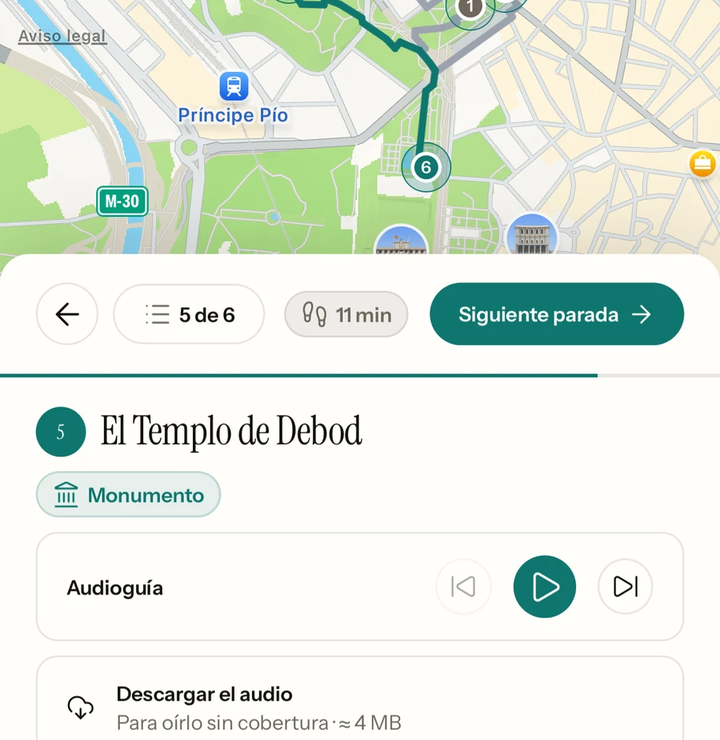
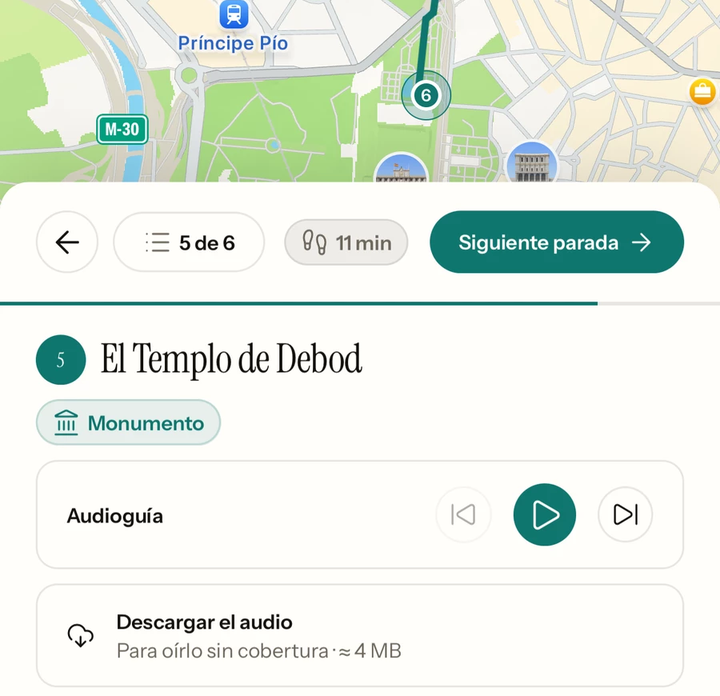
Anuncio del lanzamiento: la marca desde el fotograma 0, cortes en seco, pantallas opacas, recortes y subtítulos al arranque de cada palabra
Claude-Session: https://claude.ai/code/session_0196mf4dm34Y5H63pT5oKbym

diff --git a/piezas/historias-animadas/lanzamiento-ios/index.html b/piezas/historias-animadas/lanzamiento-ios/index.html
@@ -43,14 +43,19 @@
       .pantalla img, .pantalla video { display: block; width: 720px; }
 
       /* LA TARJETA DE LA AUDIOGU&Iacute;A, como la que el due&ntilde;o aprob&oacute; en el reel de la Sagrada Fam&iacute;lia:
-         blanco roto de la app, el verde de la app s&oacute;lo en el icono que suena y el nombre, y la frase en
-         negro, cada palabra encendi&eacute;ndose cuando la dice la voz. */
+         blanco roto de la app, el verde de la app s&oacute;lo en las barras que suenan y el nombre, y la frase
+         en negro, cada palabra encendi&eacute;ndose cuando la dice la voz. Lleva LA MARCA desde el
+         fotograma 0 (revisi&oacute;n del 24-oct: sin ella, quien pasa el reel a los 3 s no sabe de qui&eacute;n
+         es): el icono de la app y &laquo;Nomad&raquo;. La segunda l&iacute;nea no repite lo que dice la pantalla. */
       #audio { position: absolute; left: 84px; top: 476px; width: 816px; height: 196px; box-sizing: border-box;
                background: #FEFCF9; border: 2px solid rgba(16,14,11,.06); border-radius: 34px;
                box-shadow: 0 24px 60px rgba(16,14,11,.35); color: #100E0B; }
-      #icono { position: absolute; left: 36px; top: 28px; width: 60px; height: 60px; border-radius: 30px;
-               background: #106A63; display: flex; align-items: center; justify-content: center; gap: 5px; }
-      .barra { display: block; width: 5px; height: 28px; border-radius: 3px; background: #FEFCF9; }
+      /* El icono de la app como fondo, no como &lt;img&gt;: el cierre ya lo usa como &lt;img&gt; y dos
+         nodos con la misma fuente se pueden descubrir dos veces al compilar (hyperframes check). */
+      #icono { position: absolute; left: 36px; top: 26px; width: 64px; height: 64px; border-radius: 15px;
+               background: url(assets/icono-app.png) center / cover no-repeat; }
+      #ondas { position: absolute; right: 40px; top: 36px; height: 40px; display: flex; align-items: center; gap: 6px; }
+      .barra { display: block; width: 6px; height: 34px; border-radius: 3px; background: #106A63; }
       #que-suena { position: absolute; left: 116px; top: 26px; margin: 0; font-size: 32px; line-height: 38px;
                    font-weight: 700; color: #106A63; white-space: nowrap; }
       #donde { position: absolute; left: 116px; top: 66px; margin: 0; font-size: 28px; line-height: 32px;
@@ -94,16 +99,19 @@
       <p id="k1" class="kicker sans">Templo de Debod &middot; Madrid</p>
       <h1 id="t1" class="tit serif" style="top: 348px;">La ciudad, <span class="menta">contada.</span></h1>
       <div id="audio">
-        <div id="icono"><span class="barra"></span><span class="barra"></span><span class="barra"></span><span class="barra"></span></div>
-        <p id="que-suena" class="sans">Audiogu&iacute;a</p>
-        <p id="donde" class="sans">Parada 5 &middot; El Templo de Debod</p>
+        <div id="icono"></div>
+        <p id="que-suena" class="sans">Nomad</p>
+        <p id="donde" class="sans">Audiogu&iacute;a &middot; un paseo de 6 paradas</p>
+        <div id="ondas"><span class="barra"></span><span class="barra"></span><span class="barra"></span><span class="barra"></span></div>
         <!-- El texto es el de la app: tours_cache 688ed389, parada 5, main_explanation, segundo
-             p&aacute;rrafo, palabra por palabra hasta &laquo;lugar&raquo;. data-t: cu&aacute;ndo lo dice Kore en la mezcla. -->
+             p&aacute;rrafo, palabra por palabra hasta &laquo;lugar&raquo;. data-t: cu&aacute;ndo EMPIEZA la palabra en la mezcla
+             (el arranque, no la consonante fuerte: &laquo;cajas&raquo; en 4,76, con el cierre de la /k/). El
+             encendido arranca 0,07 s antes, para que el punto medio caiga ah&iacute;. -->
         <p id="s1" class="frase sans"><span data-t="0.60">Fue</span> <span data-t="0.93">desmontado</span> <span data-t="1.75">piedra</span> <span data-t="2.41">a</span> <span data-t="2.55">piedra,</span></p>
-        <p id="s2" class="frase sans"><span data-t="3.09">empaquetado</span> <span data-t="3.93">en</span> <span data-t="4.25">miles</span> <span data-t="4.59">de</span> <span data-t="4.91">cajas</span></p>
-        <p id="s3" class="frase sans"><span data-t="5.59">y</span> <span data-t="5.77">transportado</span> <span data-t="6.47">hasta</span> <span data-t="6.69">este</span> <span data-t="6.89">lugar.</span></p>
+        <p id="s2" class="frase sans"><span data-t="3.09">empaquetado</span> <span data-t="3.93">en</span> <span data-t="4.18">miles</span> <span data-t="4.59">de</span> <span data-t="4.76">cajas</span></p>
+        <p id="s3" class="frase sans"><span data-t="5.59">y</span> <span data-t="5.70">transportado</span> <span data-t="6.47">hasta</span> <span data-t="6.69">este</span> <span data-t="6.89">lugar.</span></p>
       </div>
-      <div id="p-debod" class="pantalla" style="top: 706px; height: 740px;">
+      <div id="p-debod" class="pantalla" style="top: 700px; height: 696px;">
         <img src="assets/pantalla-debod.png" alt="" />
       </div>
 
@@ -123,7 +131,7 @@
         <img src="assets/pantalla-eventos.png" alt="" />
       </div>
       <h1 id="t4" class="tit serif" style="top: 330px;">Los gastos, <span class="menta">en paz.</span></h1>
-      <div id="p-gastos" class="pantalla" style="top: 480px; height: 352px;">
+      <div id="p-gastos" class="pantalla" style="top: 480px; height: 290px;">
         <img src="assets/pantalla-gastos.png" alt="" />
       </div>
 
@@ -148,20 +156,31 @@
     <script>
       // Una sola l&iacute;nea de tiempo, pausada, registrada DESPU&Eacute;S de que carguen las fuentes.
       // Estado inicial dentro del fromTo, nunca en CSS; las salidas con .to.
+      //
+      // LOS CORTES, EN SECO (revisi&oacute;n del 24-oct). En cada cambio de escena la foto nueva entra de
+      // golpe en el tiempo fuerte y lo de la escena anterior ya no est&aacute; (o sale en ese mismo
+      // fotograma): nunca dos fotos ni dos tarjetas superpuestas. Y las pantallas son OPACAS desde su
+      // primer fotograma: entran movi&eacute;ndose, nunca fundi&eacute;ndose, porque una tarjeta medio
+      // transparente deja ver la foto a trav&eacute;s y parece una doble exposici&oacute;n.
+      // Lo que se ve en el fotograma 0 (el kicker, el t&iacute;tulo y la tarjeta con la marca) est&aacute; ah&iacute;
+      // desde el principio, sin entrada: es la portada por defecto de TikTok y el primer vistazo.
       document.fonts.ready.then(function () {
         var tl = gsap.timeline({ paused: true });
         // Cortes en los tiempos de la m&uacute;sica (0,627 s): 12, 23, 25,5, 28 y el golpe (20,0).
         var T2 = 7.52, T3 = 14.42, T4 = 15.99, T5 = 17.56, T6 = 20.0, FIN = 24.6;
         var IN = { autoAlpha: 1, y: 0, duration: 0.5, ease: "power3.out" };
-        var OUT = { autoAlpha: 0, y: -16, duration: 0.2, ease: "power2.in" };
         var ARR = { autoAlpha: 1, y: 0, duration: 0.6, ease: "power3.out" };
+        function corta(sel, t) { tl.to(sel, { autoAlpha: 0, duration: 0 }, t); }
+        function aparece(sel, t) { tl.fromTo(sel, { autoAlpha: 0 }, { autoAlpha: 1, duration: 0 }, t); }
+        // Una pantalla entra opaca desde abajo: visible desde el primer fotograma, s&oacute;lo se mueve.
+        function sube(sel, t, dy, dur) {
+          tl.fromTo(sel, { autoAlpha: 0, y: dy }, { autoAlpha: 1, duration: 0 }, t);
+          tl.fromTo(sel, { y: dy }, { y: 0, duration: dur, ease: "expo.out", immediateRender: false }, t);
+        }
 
-        // 1 · LA CIUDAD, CONTADA. La foto ya est&aacute;; el t&iacute;tulo entra antes de que hable Kore,
-        // la tarjeta con la voz, y la pantalla de la app sube en el primer comp&aacute;s (2,51).
-        tl.fromTo("#k1", { autoAlpha: 0, y: 14 }, IN, 0.05);
-        tl.fromTo("#t1", { autoAlpha: 0, y: 24 }, IN, 0.12);
-        tl.fromTo("#audio", { autoAlpha: 0, y: 30 }, IN, 0.3);
-        tl.fromTo("#p-debod", { autoAlpha: 0, y: 140 }, { autoAlpha: 1, y: 0, duration: 0.7, ease: "power3.out" }, 2.4);
+        // 1 · LA CIUDAD, CONTADA. Foto, kicker, t&iacute;tulo y tarjeta desde el fotograma 0; la pantalla de
+        // la app sube desde fuera del cuadro en el primer comp&aacute;s (2,4).
+        sube("#p-debod", 2.4, 1240, 0.9);
         // Las barras se mueven s&oacute;lo mientras habla la voz.
         var barras = document.querySelectorAll(".barra");
         for (var i = 0; i < barras.length; i++) {
@@ -176,45 +195,42 @@
           tl.fromTo(f[0], { autoAlpha: 0 }, { autoAlpha: 1, duration: 0.12, ease: "none" }, f[1]);
           if (f[2] !== null) tl.to(f[0], { autoAlpha: 0, duration: 0.1, ease: "none" }, f[2] - 0.1);
         });
+        // Cada palabra se enciende en 0,14 s CENTRADOS en el arranque que dice su data-t.
         document.querySelectorAll(".frase span").forEach(function (s) {
-          tl.fromTo(s, { opacity: 0.28 }, { opacity: 1, duration: 0.14, ease: "none" }, parseFloat(s.dataset.t));
+          tl.fromTo(s, { opacity: 0.28 }, { opacity: 1, duration: 0.14, ease: "none" }, parseFloat(s.dataset.t) - 0.07);
         });
-        // Salida, en el comp&aacute;s 3.
-        ["#k1", "#t1", "#audio"].forEach(function (s) { tl.to(s, OUT, T2 - 0.22); });
-        tl.to("#p-debod", { autoAlpha: 0, y: -60, duration: 0.25, ease: "power2.in" }, T2 - 0.25);
+        // Corte a C&oacute;rdoba en el comp&aacute;s 3: todo lo de Debod fuera en el mismo fotograma.
+        ["#k1", "#t1", "#audio", "#p-debod", "#f-debod"].forEach(function (s) { corta(s, T2); });
 
-        // 2 · ESCRIBIR EL VIAJE. Corte de foto en el tiempo fuerte; &laquo;Nomad lo escribe&raquo; entra
-        // cuando la app se pone a trabajar (escribir.mp4: tecleo 0-2,5, Montando 2,5-4,4, s&aacute;bado 4,4-6,9).
-        tl.fromTo("#f-cordoba", { autoAlpha: 0 }, { autoAlpha: 1, duration: 0.2, ease: "none" }, T2 - 0.1);
-        tl.fromTo("#k2", { autoAlpha: 0, y: 14 }, IN, T2 + 0.05);
-        tl.fromTo("#t2a", { autoAlpha: 0, y: 24 }, IN, T2 + 0.1);
-        tl.fromTo("#p-escribir", { autoAlpha: 0, y: 120 }, { autoAlpha: 1, y: 0, duration: 0.55, ease: "power3.out" }, T2);
+        // 2 · ESCRIBIR EL VIAJE. &laquo;Nomad lo escribe&raquo; entra cuando la app se pone a trabajar
+        // (escribir.mp4: tecleo 0-2,5, Montando 2,5-4,4, s&aacute;bado 4,4-6,9).
+        aparece("#f-cordoba", T2);
+        tl.fromTo("#k2", { autoAlpha: 0, y: 14 }, IN, T2 + 0.02);
+        tl.fromTo("#t2a", { autoAlpha: 0, y: 24 }, IN, T2 + 0.06);
+        sube("#p-escribir", T2, 220, 0.7);
         tl.fromTo("#t2b", { autoAlpha: 0, y: 24 }, IN, T2 + 2.5);
-        ["#k2", "#t2a", "#t2b"].forEach(function (s) { tl.to(s, OUT, T3 - 0.2); });
-        tl.to("#p-escribir", { autoAlpha: 0, y: -60, duration: 0.2, ease: "power2.in" }, T3 - 0.2);
+        ["#k2", "#t2a", "#t2b", "#p-escribir", "#f-cordoba"].forEach(function (s) { corta(s, T3); });
 
         // 3 · LOS DESTELLOS: foto, t&iacute;tulo y pantalla de golpe, en el tiempo.
-        tl.fromTo("#f-correfoc", { autoAlpha: 0 }, { autoAlpha: 1, duration: 0.12, ease: "none" }, T3 - 0.06);
-        tl.fromTo("#t3", { autoAlpha: 0, y: 20 }, { autoAlpha: 1, y: 0, duration: 0.35, ease: "power3.out" }, T3);
-        tl.fromTo("#p-eventos", { autoAlpha: 0, y: 90 }, { autoAlpha: 1, y: 0, duration: 0.4, ease: "power3.out" }, T3);
-        tl.to("#t3", OUT, T4 - 0.18);
-        tl.to("#p-eventos", { autoAlpha: 0, y: -50, duration: 0.18, ease: "power2.in" }, T4 - 0.18);
-        tl.fromTo("#f-gotic", { autoAlpha: 0 }, { autoAlpha: 1, duration: 0.12, ease: "none" }, T4 - 0.06);
-        tl.fromTo("#t4", { autoAlpha: 0, y: 20 }, { autoAlpha: 1, y: 0, duration: 0.35, ease: "power3.out" }, T4);
-        tl.fromTo("#p-gastos", { autoAlpha: 0, y: 90 }, { autoAlpha: 1, y: 0, duration: 0.4, ease: "power3.out" }, T4);
-        tl.to("#t4", OUT, T5 - 0.18);
-        tl.to("#p-gastos", { autoAlpha: 0, y: -50, duration: 0.18, ease: "power2.in" }, T5 - 0.18);
+        aparece("#f-correfoc", T3);
+        tl.fromTo("#t3", { autoAlpha: 0, y: 20 }, { autoAlpha: 1, y: 0, duration: 0.3, ease: "power3.out" }, T3);
+        sube("#p-eventos", T3, 160, 0.55);
+        ["#t3", "#p-eventos", "#f-correfoc"].forEach(function (s) { corta(s, T4); });
+        aparece("#f-gotic", T4);
+        tl.fromTo("#t4", { autoAlpha: 0, y: 20 }, { autoAlpha: 1, y: 0, duration: 0.3, ease: "power3.out" }, T4);
+        sube("#p-gastos", T4, 160, 0.55);
+        ["#t4", "#p-gastos"].forEach(function (s) { corta(s, T5); });
 
         // 4 · EL PRECIO, sobre tinta: la cifra primero, &laquo;Sin suscripci&oacute;n&raquo; un comp&aacute;s despu&eacute;s.
-        tl.fromTo("#tinta", { autoAlpha: 0 }, { autoAlpha: 1, duration: 0.15, ease: "none" }, T5 - 0.05);
-        tl.fromTo("#p-desde", { autoAlpha: 0, y: 20 }, IN, T5 + 0.1);
-        tl.fromTo("#p-cifra", { autoAlpha: 0, y: 40, scale: 0.94 }, { autoAlpha: 1, y: 0, scale: 1, duration: 0.6, ease: "power3.out" }, T5 + 0.2);
-        tl.fromTo("#p-viaje", { autoAlpha: 0, y: 20 }, IN, T5 + 0.45);
+        aparece("#tinta", T5);
+        tl.fromTo("#p-desde", { autoAlpha: 0, y: 20 }, IN, T5 + 0.06);
+        tl.fromTo("#p-cifra", { autoAlpha: 0, y: 40, scale: 0.94 }, { autoAlpha: 1, y: 0, scale: 1, duration: 0.6, ease: "power3.out" }, T5 + 0.16);
+        tl.fromTo("#p-viaje", { autoAlpha: 0, y: 20 }, IN, T5 + 0.42);
         tl.fromTo("#p-sin", { autoAlpha: 0, y: 20 }, IN, T5 + 1.0);
-        ["#p-desde", "#p-cifra", "#p-viaje", "#p-sin"].forEach(function (s) { tl.to(s, { autoAlpha: 0, duration: 0.05, ease: "none" }, T6 - 0.05); });
+        ["#p-desde", "#p-cifra", "#p-viaje", "#p-sin"].forEach(function (s) { corta(s, T6); });
 
         // 5 · EL CIERRE, en el golpe: papel, icono, nombre, la insignia (entera, con un fundido) y Android.
-        tl.fromTo("#papel", { autoAlpha: 0 }, { autoAlpha: 1, duration: 0.08, ease: "none" }, T6 - 0.04);
+        aparece("#papel", T6);
         tl.fromTo("#c-icono", { autoAlpha: 0, y: 30, scale: 0.92 }, { autoAlpha: 1, y: 0, scale: 1, duration: 0.6, ease: "back.out(1.4)" }, T6);
         tl.fromTo("#c-nombre", { autoAlpha: 0, y: 24 }, ARR, T6 + 0.18);
         tl.fromTo("#c-insignia", { autoAlpha: 0 }, { autoAlpha: 1, duration: 0.45, ease: "power1.out" }, T6 + 0.45);

diff --git a/piezas/historias-animadas/lanzamiento-ios/preparar.py b/piezas/historias-animadas/lanzamiento-ios/preparar.py
@@ -15,9 +15,19 @@ APP = sys.argv[1] if len(sys.argv) > 1 else '/home/user/NOMAD'
 os.makedirs(A, exist_ok=True)
 
 # Las fotos, tal cual del banco (créditos en banco/fotos/creditos.json).
-for src, dst in [('f-debod-nubes.jpg', 'fondo-debod.jpg'), ('f-cordoba.jpg', 'fondo-cordoba.jpg'),
+for src, dst in [('f-debod-nubes.jpg', 'fondo-debod.jpg'),
                  ('f-merce-diable.jpg', 'fondo-correfoc.jpg'), ('f-bcn-festa.jpg', 'fondo-gotic.jpg')]:
     shutil.copy(f'{R}/banco/fotos/historia/{src}', f'{A}/{dst}')
+# Córdoba, desenfocada A PROPÓSITO (revisión del 24-oct). Es la única foto de Córdoba del banco
+# y es blanda: un tercio del detalle fino de las otras tres, bloques de JPEG y el cielo quemado.
+# Nítida al lado de Debod, el correfoc y el Gòtic delataba el montaje; desenfocada y un poco más
+# oscura se lee como fondo de ambiente detrás de la pantalla, que es lo que es. Una foto nítida
+# no se pudo traer: Commons da 429 y Unsplash pide un reto de bots desde el contenedor.
+from PIL import ImageEnhance, ImageFilter
+im = Image.open(f'{R}/banco/fotos/historia/f-cordoba.jpg').convert('RGB')
+im = im.filter(ImageFilter.GaussianBlur(16))
+im = ImageEnhance.Brightness(im).enhance(0.86)
+im.save(f'{A}/fondo-cordoba.jpg', quality=92)
 shutil.copy(f'{R}/piezas/historias-animadas/plan-cordoba/assets/gsap.min.js', f'{A}/gsap.min.js')
 shutil.copy(f'{R}/banco/marca/icono-app.png', f'{A}/icono-app.png')
 # La insignia oficial de Apple, sin tocar (la misma que web/insignias/app-store-es.svg de la app).
@@ -30,22 +40,29 @@ def recorte(src, caja, ancho, dst):
     print(dst, im.size)
 
 # La audioguía de Debod (banco/capturas/tourdebod-900.webp, 900 de ancho): del final del mapa,
-# con la ruta y las paradas 4-6, a «Descargar el audio · Para oírlo sin cobertura». Sin barra
-# de estado (empieza en y=510).
-recorte(f'{R}/banco/capturas/tourdebod-900.webp', (0, 510, 900, 1435), 720, 'pantalla-debod.png')
+# con la ruta hasta la parada 6, a «Descargar el audio · Para oírlo sin cobertura» ENTERA, con
+# su recuadro (acaba en 1456) y 14 px de aire. Sin barra de estado (empieza en y=600). 720x696.
+recorte(f'{R}/banco/capturas/tourdebod-900.webp', (0, 600, 900, 1470), 720, 'pantalla-debod.png')
 # Qué hay esos días y los gastos: capturas en bruto del iPhone del dueño, 1206 de ancho.
 P = f'{APP}/docs/tienda/capturas/piezas'
 if os.path.exists(f'{P}/pantalla-eventos.png'):
     recorte(f'{P}/pantalla-eventos.png', (0, 200, 1206, 1400), 720, 'pantalla-eventos.png')
-    # Los gastos, SOLO hasta encima de la tarjeta negra: ahí sale el nombre de una persona real.
-    recorte(f'{P}/pantalla-gastos.png', (0, 400, 1206, 990), 720, 'pantalla-gastos.png')
+    # Los gastos, SOLO hasta la barra: debajo va «• Tú 56 €», el redondeo de la leyenda, que al
+    # lado de «Gasto del grupo 55,99 €» parece una cuenta mal hecha; y más abajo, la tarjeta
+    # negra con el nombre de una persona real. 720x290.
+    recorte(f'{P}/pantalla-gastos.png', (0, 400, 1206, 885), 720, 'pantalla-gastos.png')
 
 # Escribir el viaje: tres trozos de la grabación de Córdoba (760x1652, 30 fps), cada uno con
-# su ventana, a 720x700. Fotogramas: el tecleo 250-324, «Montando» 461-517 y el sábado
-# 536-610. El 611 es el domingo con el Palacio de Viana mal puesto: NO entra. Antes del 461
-# sale el resumen con el nombre del viaje: tampoco.
+# su ventana (760x739 desde la y que se dice), a 720x700. Fotogramas: el tecleo 250-324,
+# «Montando» 461-517 y el sábado 536-610. El 611 es el domingo con el Palacio de Viana mal
+# puesto: NO entra. Antes del 461 sale el resumen con el nombre del viaje: tampoco.
+# - El tecleo, desde y=295: acaba en 1034, por encima de 1050, que es donde asoman las burbujas
+#   de tecla del teclado de iOS (medido fotograma a fotograma). Empieza debajo de las barras de
+#   «Paso 4 de 4», que acaban en ~275.
+# - El sábado, desde y=252: el borde de la hoja está en 248, el «+» empieza en 270 y entra
+#   entero, y por encima no queda mapa (el pico de la esquina lo tapa el redondeo de la pantalla).
 G = f'{R}/piezas/historias-animadas/plan-cordoba/assets/pantalla.mp4'
-tramos = [(250, 325, 320), (461, 518, 520), (536, 611, 290)]
+tramos = [(250, 325, 295), (461, 518, 520), (536, 611, 252)]
 f = ';'.join(f'[0:v]trim=start_frame={a}:end_frame={b},setpts=PTS-STARTPTS,crop=760:739:0:{y},'
              f'scale=720:700:flags=lanczos,setsar=1[t{i}]' for i, (a, b, y) in enumerate(tramos))
 f += ';' + ''.join(f'[t{i}]' for i in range(3)) + 'concat=n=3:v=1:a=0,fps=30,format=yuv420p[v]'
